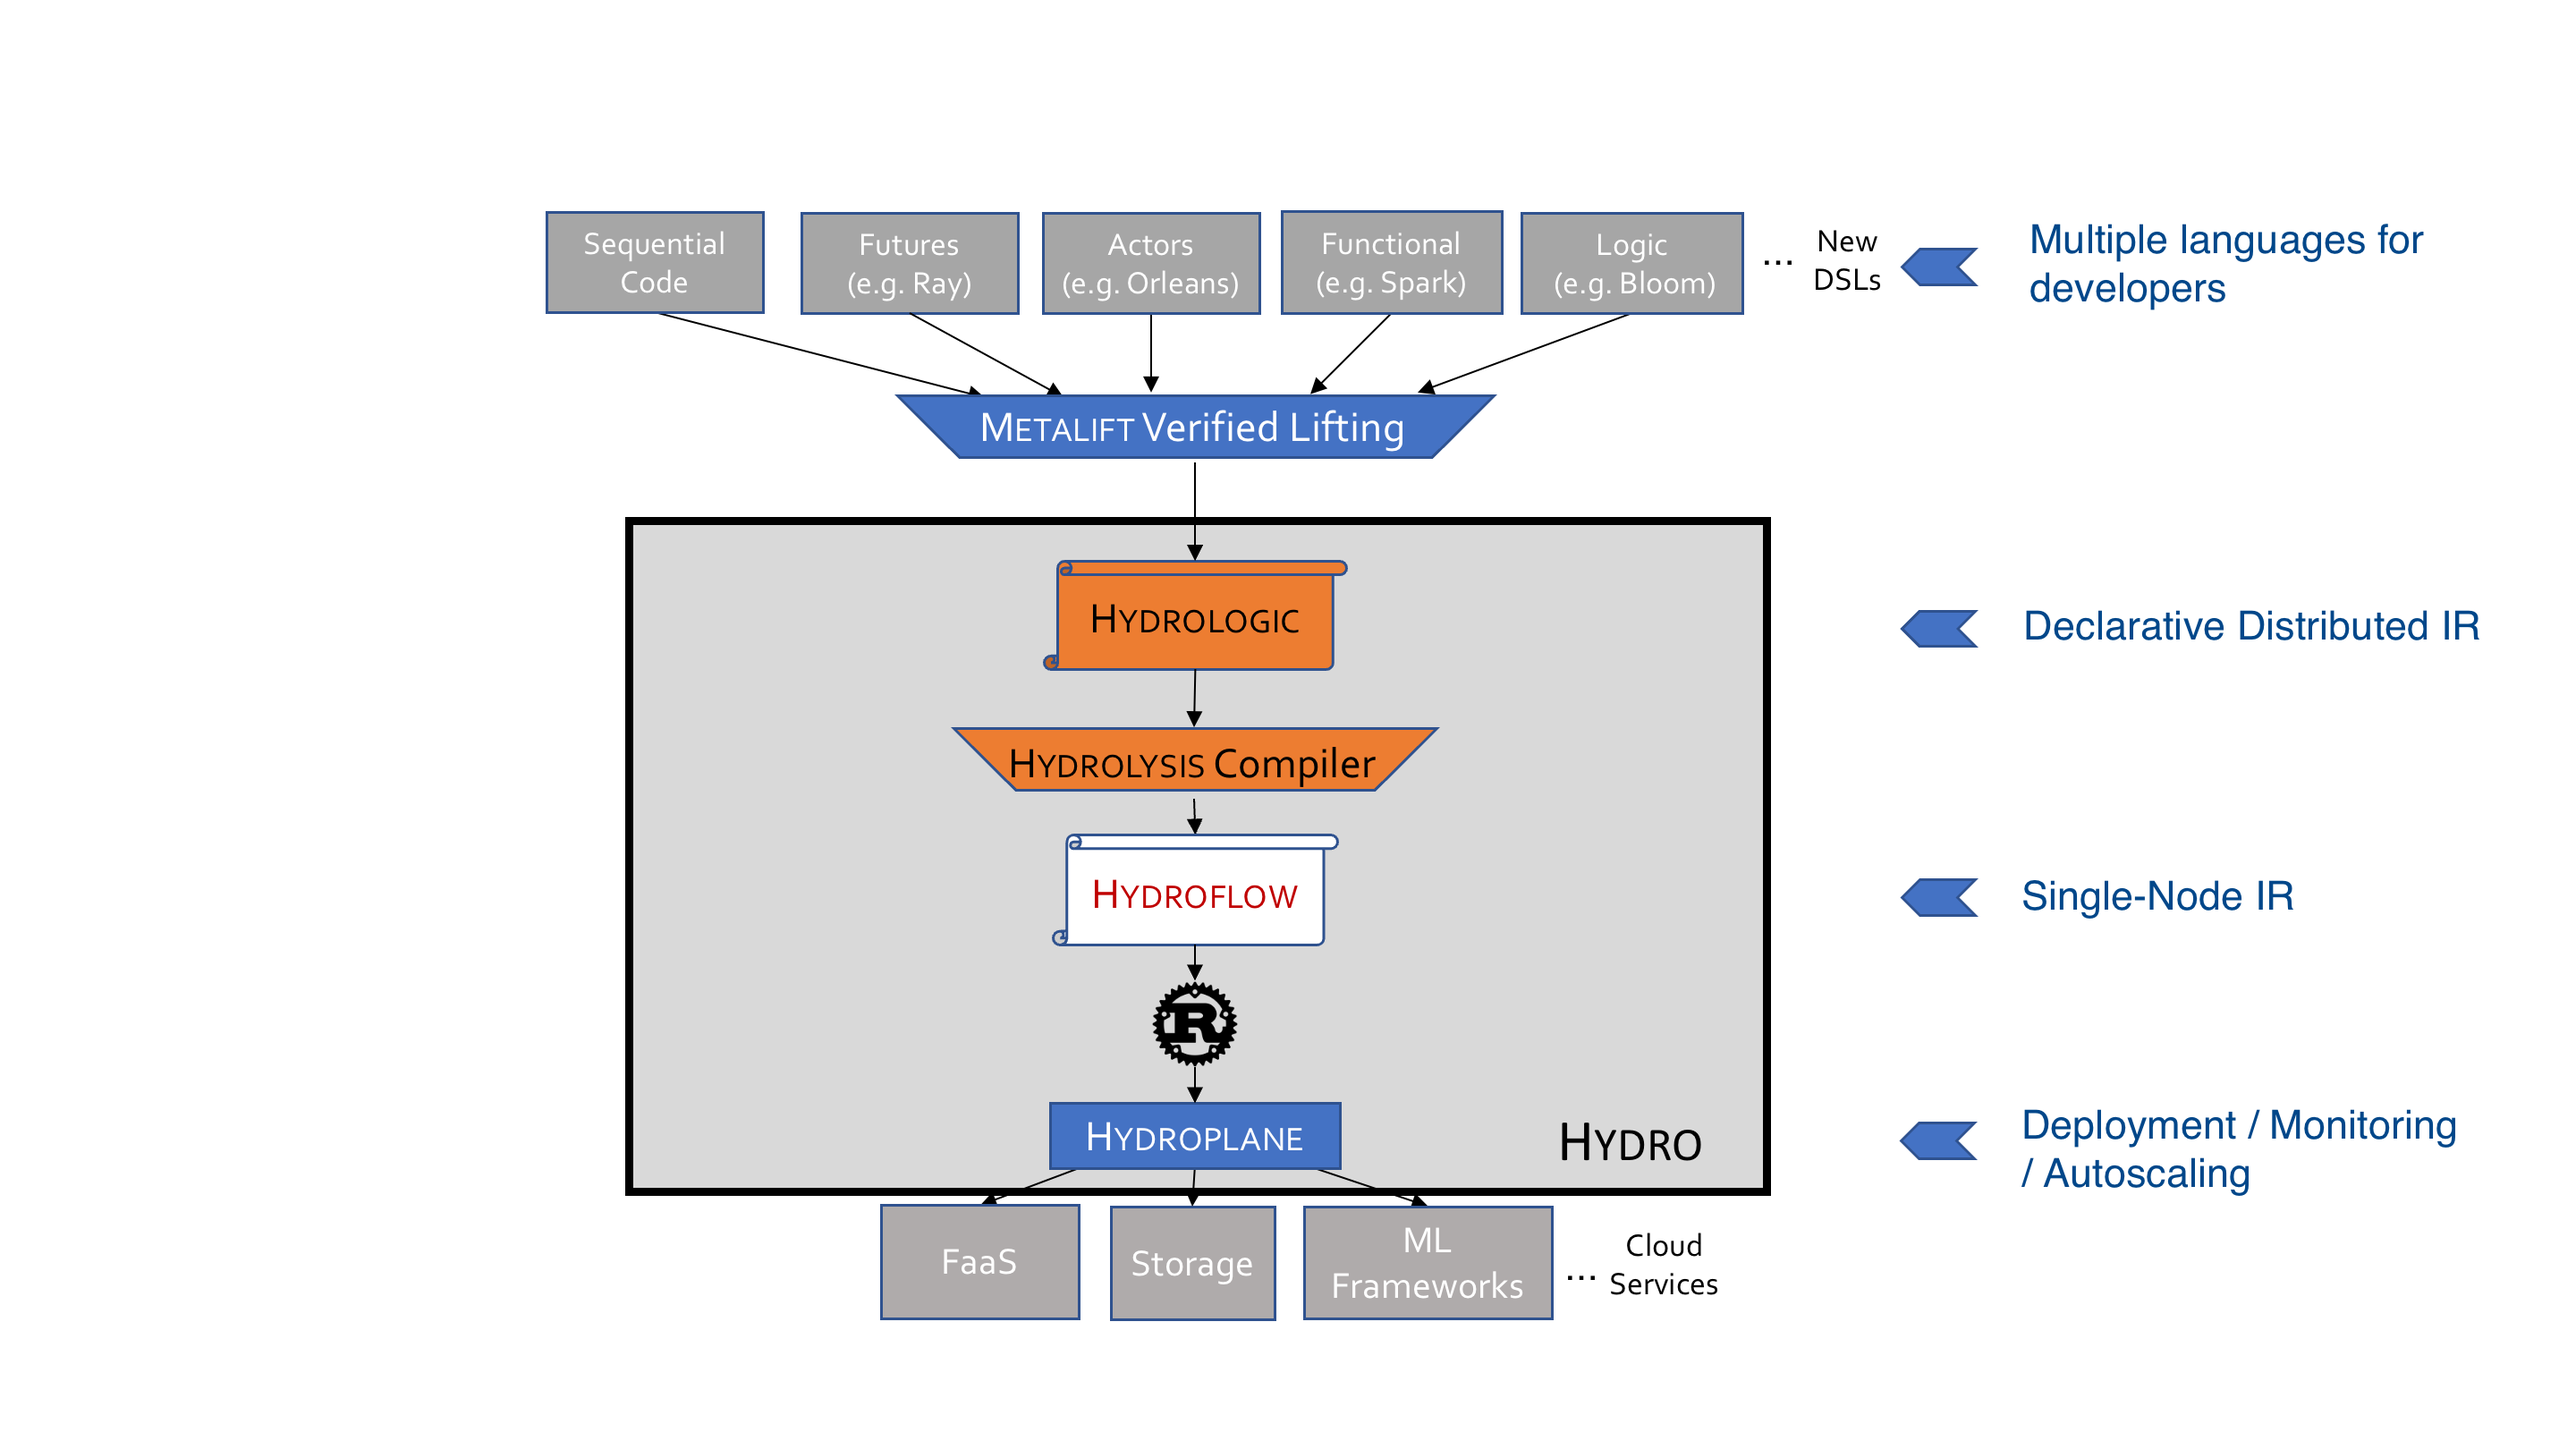
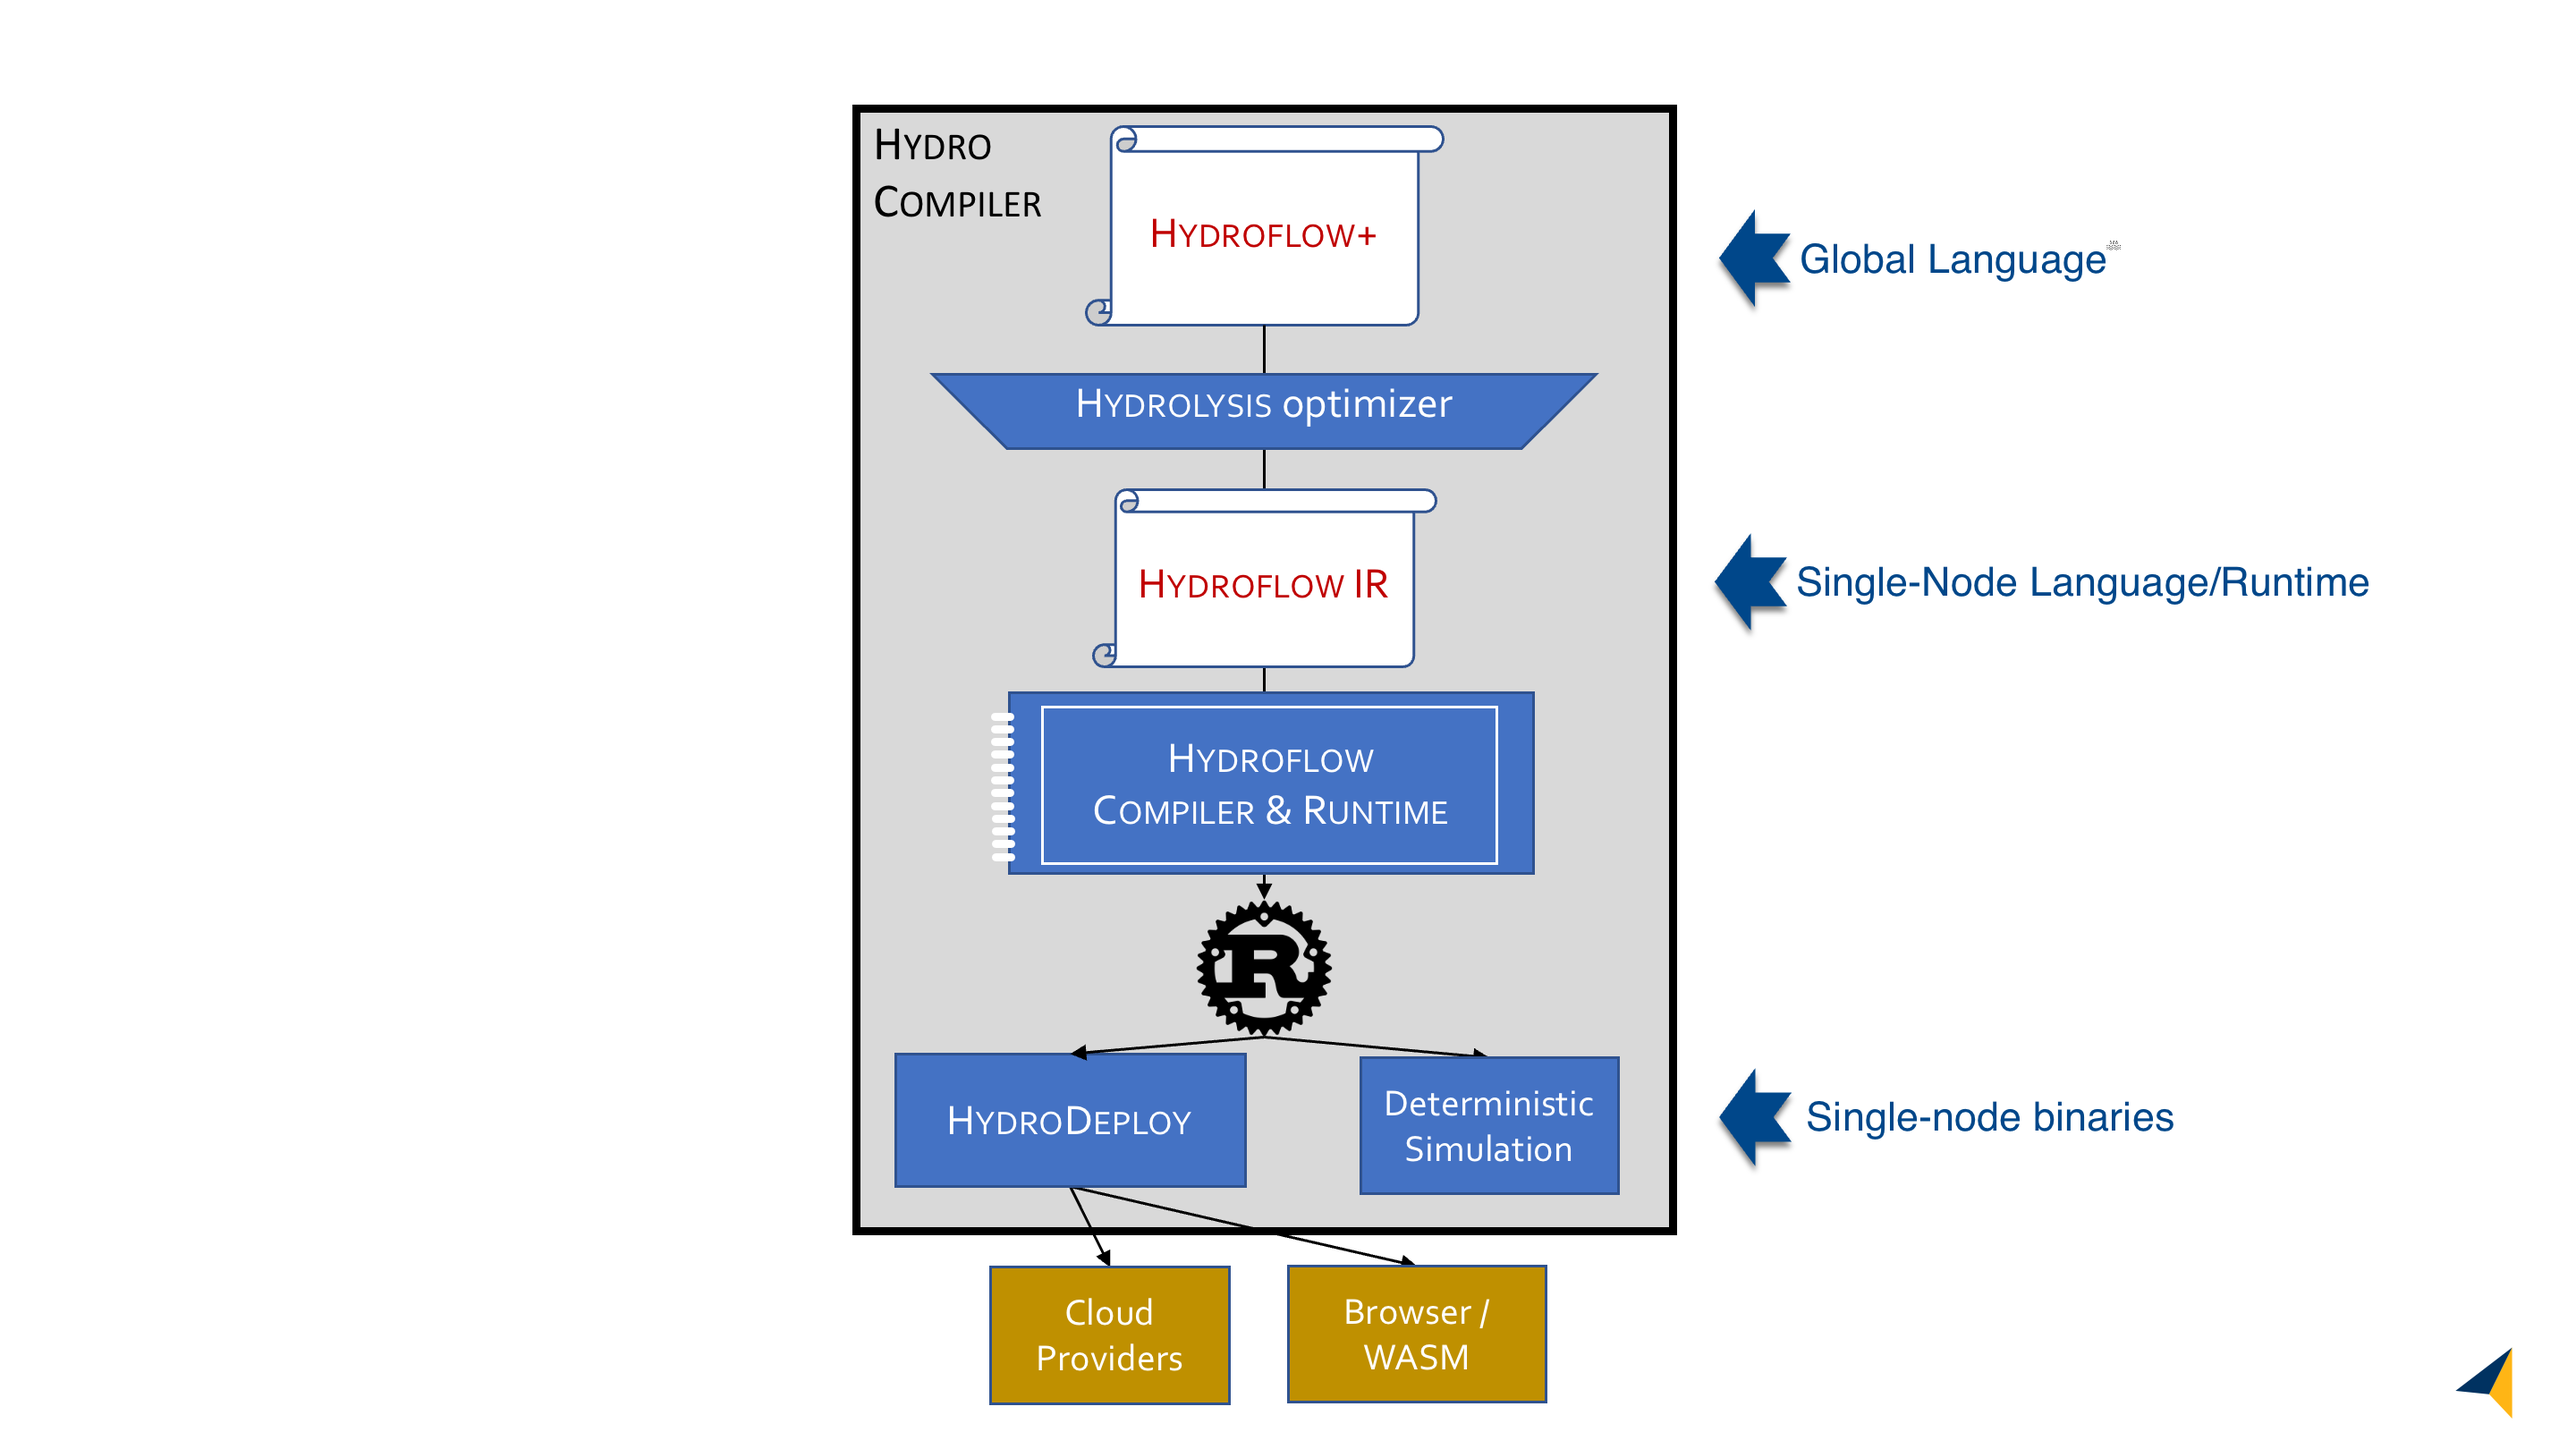
fix(docs): update hydro stack diagram and discussion (#1539)
- Remove TODO.md (contents filed as an issue, #1538)
- Update stack diagram
- Update discussion of stack diagram

Changed region(s): [[0.1875, 0.0617, 0.9688, 0.9877], [0.7188, 0.5864, 0.875, 0.6481], [0.9375, 0.9259, 1.0, 0.9877]]

diff --git a/docs/docs/hydroflow/ecosystem.md b/docs/docs/hydroflow/ecosystem.md
@@ -4,24 +4,22 @@ sidebar_position: 4
 
 # The Hydro Ecosystem
 The Hydro Project is an evolving stack of libraries and languages for distributed programming.
-A rough picture of the envisioned Hydro stack is below:
+A rough picture of the Hydro stack is below:
 
 ![Hydro Stack](./img/hydro_stack.png)
 
-The core of the Hydro stack is shown in in the grey box; components that have not been implemented are in orange. 
+Working down from the top:
 
-Working up from the bottom:
+- [*Hydroflow+*](../hydroflow_plus) is an end-user-facing high-level [choreographic](https://en.wikipedia.org/wiki/Choreographic_programming) [dataflow](https://en.wikipedia.org/wiki/Dataflow_programming) language. Hydroflow+ is a *global* language for programming a fleet of transducers. Programmers author dataflow pipelines that start with streams of events and data, and span boundaries across multiple `process` and (scalable) `cluster` specifications.
 
-- [Hydroplane](https://github.com/hydro-project/hydroplane) is a service for launching and monitoring Hydroflow transducers. It works both on local developer machines with Docker, and in cloud services like AWS EKS. Over time we expect to add autoscaling features to Hydroplane, to allow users to configure the cluster to grow and shrink based on the monitored behavior and a pluggable policy.
+- *Hydrolysis* is a compiler that translates a global Hydroflow+ spec to multiple single-threaded Hydroflow IR programs, which collectively implement the global spec.
+This compilation phase is currently a part of the Hydroflow+ codebase, but will evolve into a standalone optimizing compiler inspired by database query optimizers and [e-graphs](https://en.wikipedia.org/wiki/E-graph).
 
-- [Hydroflow](https://github.com/hydro-project/hydroplane) is the subject of this book; a library for defining individual transducers in a distributed system. It uses the Rust compiler to generate binaries for deployment.
+- [Hydroflow IR and its compiler/runtime](https://github.com/hydro-project/hydroflow/tree/main/hydroflow) are the subject of this book. 
+Where Hydroflow+ is a *global* language for programming a fleet of processes, Hydroflow is a *local* language for programming a single process that participates in a distributed system. More specifically, Hydroflow is an internal representation (IR) language and runtime library that generates the low-level Rust code for an individual transducer. As a low-level IR, Hydroflow is not intended for the general-purpose programmer. For most users it is intended as a readable compiler target from Hydroflow+; advanced developers can also use it to manually program individual transducers.
 
-- *Hydrolysis* is a compiler we envision translating from Hydrologic to Hydroflow.
+- [HydroDeploy](../deploy) is a service for launching Hydroflow transducers on a variety of platforms.
 
-- *Hydrologic* is a high-level domain-specific language that we envision for distributed programming. Unlike Hydroflow, we expect Hydrologic to abstract away many notions of distributed computing. In particular, Hydrologic will be insensitive to the specific deployment of the code—the partitioning of functionality and data across transducers, the number of replicas of each transducer, etc. Instead, programmers will provide specifications for desired properties like the number of failures to tolerate, the consistency desired at a given endpoint, the latency of a given endpoint, etc. The Hydrolysis compiler will then generate Hydroflow transducers that can be deployed by Hydroplane to meet those specifications.
-
-- [Metalift](https://github.com/metalift/metalift) is a framework for "lifting" code from one language to a (typically higher-level) language. We envision that Metalift will be used to translate from one of many distributed programming models/languages into our common Internal Representation, Hydrologic.
+- Hydro also supports *Deterministic Simulation Testing* to aid in debugging distributed programs. Documentation on this feature is forthcoming.
 
 The Hydro stack is inspired by previous language stacks including [LLVM](https://llvm.org) and [Halide](https://halide-lang.org), which similarly expose multiple human-programmable Internal Representation langauges.
-
-An early paper on the Hydro vision appeared in CIDR 2021, under the title [New Directions in Cloud Programming](https://www.cidrdb.org/cidr2021/papers/cidr2021_paper16.pdf).
